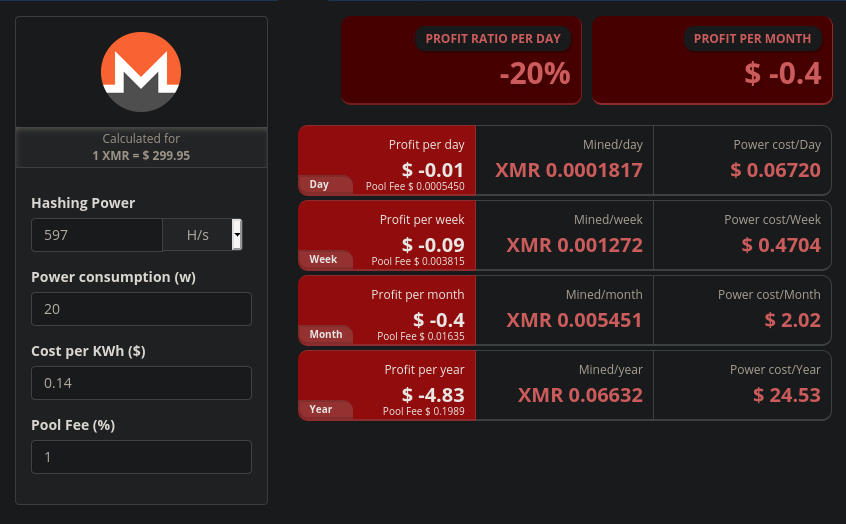
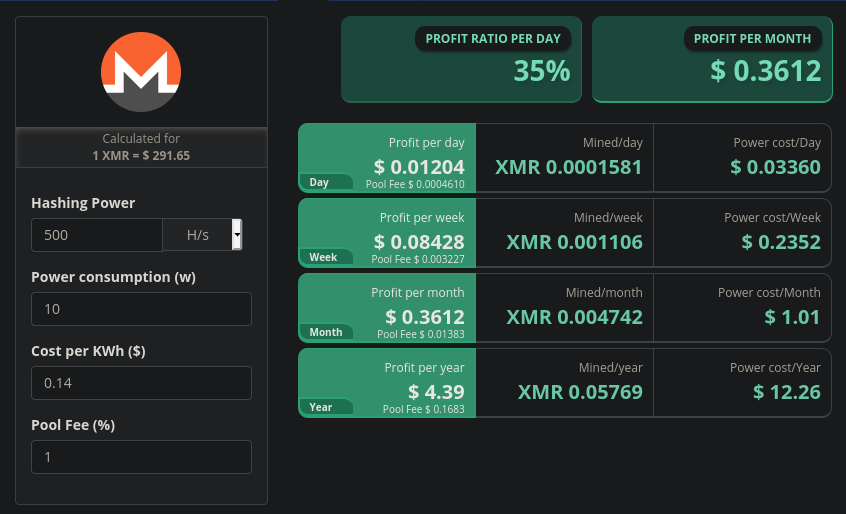
Fixed oneplus mining cost and considerations

diff --git a/android-crypto/how-to-mine-pt.md b/android-crypto/how-to-mine-pt.md
@@ -4,7 +4,7 @@
 
 ## Considerações iniciais
 
-Com tantos dispositivos android tornados obsoletos ao longo do tempo mas ainda funcionais, esse tutorial pretende validar o uso alternativo para mineração de criptomoedas.
+Com tantos dispositivos android tornados obsoletos ao longo do tempo mas ainda funcionais, esse tutorial pretende validar o uso alternativo para mineração de criptomoedas. Além disso, também como prova de conceito, esse artigo aborda os resultados da mineração em dispositivos menos limitados.
 
 Tanto Apple quanto Google restringiram a instalação de aplicativos para mineração de criptomoedas. O argumento usado é que por demandar alto desempenho acabe por prejudicar a durabilidade da bateria do dispositivo.  
 Sendo assim, os usuários de Android ainda têm a opção de fazer a instalação de um app por fora da loja; o chamado _sideload_. Essa abordagem tem enorme risco em razão do aplicativo escolhido ser difícil de auditar e de garantir a ausência de software malicioso.
@@ -113,7 +113,7 @@ Em razão das limitações impostas pelo dispositivo proposto, esse tutorial sug
 
 ### Utilizando um dispositivo tão limitado e com emulação do Linux não é vantajoso minerar criptomoedas, mesmo que seja monero e utilizando um pool
 
-Atualmente é perfeitamente possível minerar monero ou qualquer outra criptomoeda utilizando um dispositivo android. A depender do aparelho cabe discutir se é viável ou vantajoso.
+Atualmente é perfeitamente possível minerar monero ou qualquer outra criptomoeda utilizando um dispositivo android. A depender do aparelho cabe discutir se é vantajoso.
 
 - Utilizando essa configuração com UserLand num Moto X 2013:
   - Taxa de conversão: 0.42H/s
@@ -126,20 +126,29 @@ Atualmente é perfeitamente possível minerar monero ou qualquer outra criptomoe
 
 [fonte da imagem](https://www.cryptocompare.com/mining/calculator/xmr?HashingPower=0.42&HashingUnit=H%2Fs&PowerConsumption=4.335&CostPerkWh=0.14&MiningPoolFee=1)
 
-### Curiosidade
+### Com um dispositivo menos limitado
 
-Também executei o mesmo processo usando um Oneplus 6T (oneplus 6010) e tive resultados curiosamente distintos:
-> O OxygenOS tem um comportamento agressivo para com aplicativos em plano de fundo. A mineração durou quase 10 minutos.
+Com um Oneplus 6T (oneplus 6010) os resultados são bem distintos:
 
-- Taxa de conversão: 597H/s
-- Consumo: 20.4W
-    - Para esse experimento foi usado um carregador usb de 5.1V e 4A (considerando que o dispositivo utilize alimentação externa enquanto minera)
-  - P = V \* I --> P = 5.1 \* 4
+- Taxa de conversão: 500H/s
+- Consumo: 10W
+  - Para esse experimento foi usado um carregador usb de 5.1V e 2A (considerando que o dispositivo utilize alimentação externa enquanto minera)
+  - P = V \* I --> P = 5.1 \* 2
 
-Mais ainda não dá retorno:  
+Com essas configurações e com esse dispositivo já é possível tem retorno financeiro com mineração:  
   <img src="./img4.png"/>  
-  [fonte da imagem](https://www.cryptocompare.com/mining/calculator/xmr?HashingPower=597&HashingUnit=H%2Fs&PowerConsumption=20&CostPerkWh=1&MiningPoolFee=1)
+  [fonte da imagem](https://www.cryptocompare.com/mining/calculator/xmr?HashingPower=500&HashingUnit=H%2Fs&PowerConsumption=10&CostPerkWh=0.14&MiningPoolFee=1)
 
+Apesar do sucesso em minerar utilizando um dispositivo mais recente e com maior capacidade de processamento, é preciso considerar as consequências. Enquanto minerava com o Oneplus 6T, o dispositivo aqueceu consideravelmente, o que coloca pressão na durabilidade da bateria e do dispositivo em si.
+<div>
+  À esquerda enquanto o dispositivo minerava; à direita enquanto estava ocioso.<br/>
+  <img src="./img5.jpg" width="20%"/>  
+  <img src="./img6.jpg" width="20%"/>  
+</div>
+
+### Conclusão
+
+É possível minerar utilizando dispositivos android e, a depender do aparelho escolhido e do carregador, é possível ter retorno positivo. Porém é preciso considerar a pressão na durabilidade dos componentes do dispositivo, podendo ter a vida útil reduzida, seja em razão da bateria ou de outro componente.
 
 ### Referências
 
